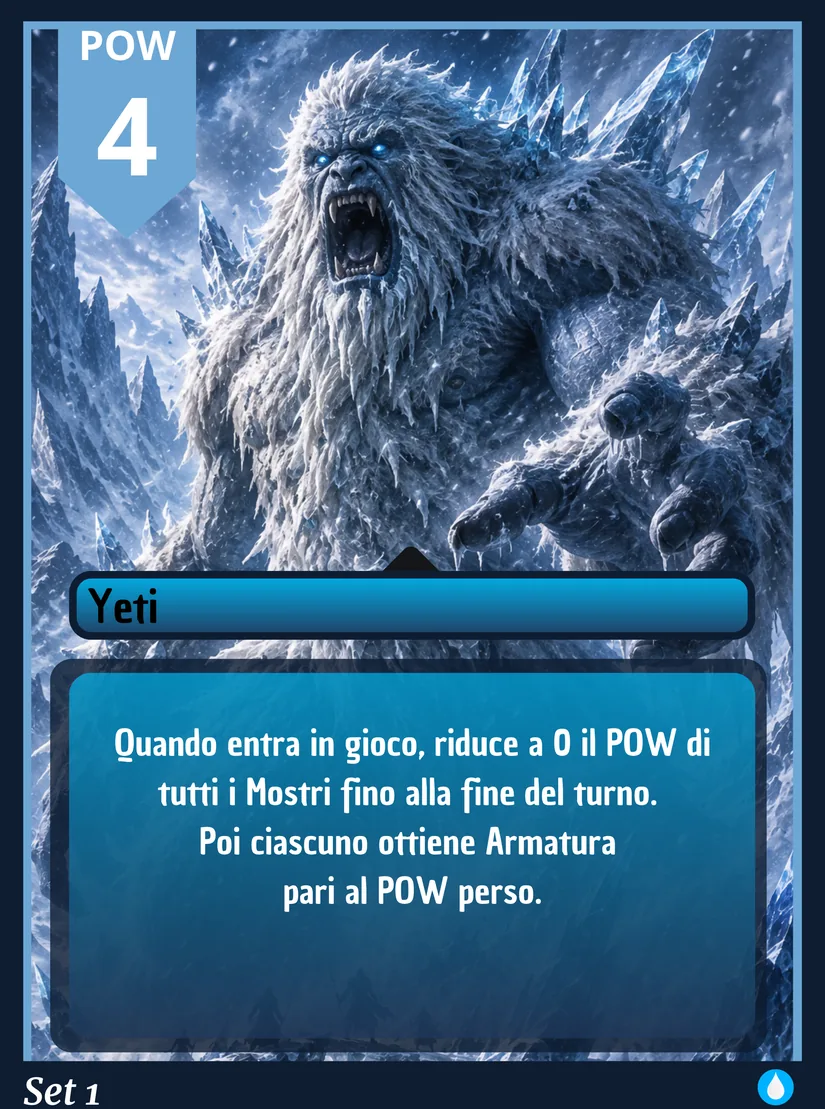
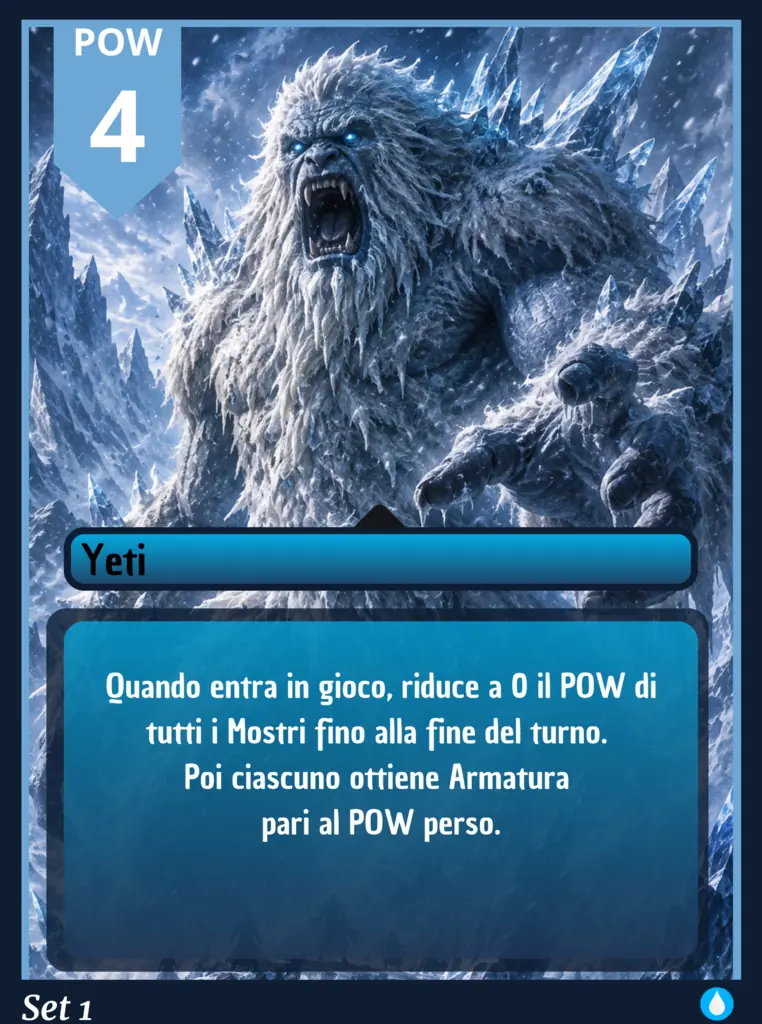
Aggiorna artwork WebP dei Mostri blu

diff --git a/soulforge/index.html b/soulforge/index.html
@@ -18,7 +18,7 @@
     const fixes={'â€¢':'•','â€”':'—','â†’':'→','â€™':'’','â€¦':'…','â†‘':'↑','â†“':'↓','PrioritÃ ':'Priorità','sarÃ ':'sarà','lâ€™':'l’'};
     for(const [bad,good] of Object.entries(fixes)) html=html.split(bad).join(good);
     html=html.replace('</head>','<link rel="stylesheet" href="/ui-v2.css?v=4"><link rel="stylesheet" href="/grave-targets-v4.css?v=1"><link rel="stylesheet" href="/interaction-v5.css?v=1"><link rel="stylesheet" href="/layout-v9.css?v=1"><link rel="stylesheet" href="/hand-v11.css?v=3"><link rel="stylesheet" href="/set1-v18.css?v=1"><link rel="stylesheet" href="/blue-v22.css?v=1"><link rel="stylesheet" href="/deck-builder-v18.css?v=2"><link rel="stylesheet" href="/deck-builder-v22.css?v=4"><link rel="stylesheet" href="/attack-arrow-v20.css?v=1"><link rel="stylesheet" href="/fantasy-board-v29.css?v=1"><link rel="stylesheet" href="/fantasy-board-v29-fix.css?v=1"><link rel="stylesheet" href="/fantasy-board-v30.css?v=1"><link rel="stylesheet" href="/fantasy-board-v31.css?v=1"><link rel="stylesheet" href="/fantasy-board-v32.css?v=1"><link rel="stylesheet" href="/fantasy-board-v33.css?v=1"><link rel="stylesheet" href="/fantasy-board-v34.css?v=1"><link rel="stylesheet" href="/preview-v35.css?v=1"><link rel="stylesheet" href="/fantasy-board-v36.css?v=1"><link rel="stylesheet" href="/fantasy-board-v37.css?v=1"><link rel="stylesheet" href="/fantasy-board-v38.css?v=1"><link rel="stylesheet" href="/fantasy-board-v39.css?v=1"><link rel="stylesheet" href="/coin-hand-v40.css?v=1"><link rel="stylesheet" href="/card-hud-v41.css?v=2"><link rel="stylesheet" href="/hand-position-v74.css?v=1"></head>');
-    html=html.replace('</body>','<script src="/ui-v2.js?v=6"><\/script><script src="/combat-rules-v28.js?v=2"><\/script><script src="/right-click-preview.js?v=6"><\/script><script src="/grave-targets-v4.js?v=2"><\/script><script src="/interaction-v5.js?v=2"><\/script><script src="/targeting-v8.js?v=2"><\/script><script src="/specchio-stack-fix.js?v=1"><\/script><script src="/stability-v10.js?v=1"><\/script><script src="/hand-v11.js?v=4"><\/script><script src="/alta-marea-v13.js?v=1"><\/script><script src="/selection-v16.js?v=1"><\/script><script src="/set1-v17.js?v=2"><\/script><script src="/blue-v22-loader.js?v=5"><\/script><script src="/deck-builder-v27-loader.js?v=1"><\/script><script src="/deck-builder-visual-fix-v71.js?v=7"><\/script><script src="/deck-preview-details-v76.js?v=1"><\/script><script src="/new-monsters-details-v78.js?v=2"><\/script><script src="/attack-arrow-v20.js?v=1"><\/script><script src="/rules-v23.js?v=2"><\/script><script src="/provocation-v24.js?v=2"><\/script><script src="/targeting-standard-v27.js?v=1"><\/script><script src="/fantasy-board-v29.js?v=2"><\/script><script src="/fantasy-board-v30.js?v=2"><\/script><script src="/fantasy-board-v31.js?v=2"><\/script><script src="/preview-conflict-v37.js?v=1"><\/script><script src="/preview-cleanup-v38.js?v=1"><\/script><script src="/coin-hand-v40.js?v=1"><\/script><script src="/card-hud-v41.js?v=1"><\/script><script src="/festa-art-v42.js?v=1"><\/script><script src="/combat-priority-v44.js?v=1"><\/script><script src="/turn-effects-v45.js?v=1"><\/script><script src="/new-cards-v46.js?v=6"><\/script><script src="/new-card-runtime-v47.js?v=1"><\/script><script src="/deck-builder-filters-v48.js?v=4"><\/script><script src="/rules-priority-grave-v49.js?v=4"><\/script><script src="/gameover-rematch-v50.js?v=1"><\/script><script src="/taglio-fiammante-v51.js?v=1"><\/script><script src="/nube-di-fuoco-v52.js?v=1"><\/script><script src="/orange-safe-v1.js?v=2"><\/script><script src="/orange-ui-v2.js?v=2"><\/script><script src="/compact-champions-v61.js?v=1"><\/script><script src="/pugno-target-v62.js?v=2"><\/script><script src="/champion-target-v63.js?v=1"><\/script><script src="/festa-fix-v64.js?v=1"><\/script><script src="/no-target-cast-v65.js?v=1"><\/script><script src="/game-interaction-lock-v66.js?v=1"><\/script><script src="/grave-art-v67.js?v=2"><\/script><script src="/scatola-incantata-v75.js?v=1"><\/script><script src="/new-set-v70.js?v=1"><\/script><script src="/new-set-art-v73.js?v=6"><\/script><script src="/new-monsters-v77.js?v=1"><\/script><script src="/hand-input-v69.js?v=3"><\/script></body>');
+    html=html.replace('</body>','<script src="/ui-v2.js?v=6"><\/script><script src="/combat-rules-v28.js?v=2"><\/script><script src="/right-click-preview.js?v=6"><\/script><script src="/grave-targets-v4.js?v=2"><\/script><script src="/interaction-v5.js?v=2"><\/script><script src="/targeting-v8.js?v=2"><\/script><script src="/specchio-stack-fix.js?v=1"><\/script><script src="/stability-v10.js?v=1"><\/script><script src="/hand-v11.js?v=4"><\/script><script src="/alta-marea-v13.js?v=1"><\/script><script src="/selection-v16.js?v=1"><\/script><script src="/set1-v17.js?v=2"><\/script><script src="/blue-v22-loader.js?v=5"><\/script><script src="/deck-builder-v27-loader.js?v=1"><\/script><script src="/deck-builder-visual-fix-v71.js?v=8"><\/script><script src="/deck-preview-details-v76.js?v=1"><\/script><script src="/new-monsters-details-v78.js?v=2"><\/script><script src="/attack-arrow-v20.js?v=1"><\/script><script src="/rules-v23.js?v=2"><\/script><script src="/provocation-v24.js?v=2"><\/script><script src="/targeting-standard-v27.js?v=1"><\/script><script src="/fantasy-board-v29.js?v=2"><\/script><script src="/fantasy-board-v30.js?v=2"><\/script><script src="/fantasy-board-v31.js?v=2"><\/script><script src="/preview-conflict-v37.js?v=1"><\/script><script src="/preview-cleanup-v38.js?v=1"><\/script><script src="/coin-hand-v40.js?v=1"><\/script><script src="/card-hud-v41.js?v=1"><\/script><script src="/festa-art-v42.js?v=1"><\/script><script src="/combat-priority-v44.js?v=1"><\/script><script src="/turn-effects-v45.js?v=1"><\/script><script src="/new-cards-v46.js?v=6"><\/script><script src="/new-card-runtime-v47.js?v=1"><\/script><script src="/deck-builder-filters-v48.js?v=4"><\/script><script src="/rules-priority-grave-v49.js?v=4"><\/script><script src="/gameover-rematch-v50.js?v=1"><\/script><script src="/taglio-fiammante-v51.js?v=1"><\/script><script src="/nube-di-fuoco-v52.js?v=1"><\/script><script src="/orange-safe-v1.js?v=2"><\/script><script src="/orange-ui-v2.js?v=2"><\/script><script src="/compact-champions-v61.js?v=1"><\/script><script src="/pugno-target-v62.js?v=2"><\/script><script src="/champion-target-v63.js?v=1"><\/script><script src="/festa-fix-v64.js?v=1"><\/script><script src="/no-target-cast-v65.js?v=1"><\/script><script src="/game-interaction-lock-v66.js?v=1"><\/script><script src="/grave-art-v67.js?v=2"><\/script><script src="/scatola-incantata-v75.js?v=1"><\/script><script src="/new-set-v70.js?v=1"><\/script><script src="/new-set-art-v73.js?v=6"><\/script><script src="/new-monsters-v77.js?v=1"><\/script><script src="/hand-input-v69.js?v=3"><\/script></body>');
     document.open();document.write(html);document.close();
   }catch(e){
     document.getElementById('status').className='err';

diff --git a/soulforge/deck-builder-visual-fix-v71.js b/soulforge/deck-builder-visual-fix-v71.js
@@ -4,13 +4,13 @@ const CURRENT='https://raw.githubusercontent.com/andreaamiraglia-svg/fanta-riftb
 // Manteniamo le correzioni Blu storiche solo dove servono.
 // Grifone della Tempesta ora usa il proprio artwork canonico.
 const BLUE_ART={
-  valtheris: CURRENT+'vecchio-delle-nevi.webp?rev=404c3869',
-  squalo_delle_maree: CURRENT+'squalo-delle-maree.webp?rev=art-shark-v2',
-  lupo_glaciale: CURRENT+'lupo-glaciale.webp?rev=blue-replace-v3',
-  grifone_della_tempesta: CURRENT+'grifone-della-tempesta.webp?rev=blue-replace-v3',
-  yeti: CURRENT+'leviatano.webp?rev=404c3869',
-  leviatano: CURRENT+'valtheris-spirito-eterno.webp?rev=404c3869',
-  vecchio_delle_nevi: CURRENT+'squalo-delle-maree.webp?rev=404c3869'
+  valtheris: CURRENT+'valtheris-spirito-eterno.webp?rev=blue-set-v4',
+  squalo_delle_maree: CURRENT+'squalo-delle-maree.webp?rev=blue-set-v4',
+  lupo_glaciale: CURRENT+'lupo-glaciale.webp?rev=blue-set-v4',
+  grifone_della_tempesta: CURRENT+'grifone-della-tempesta.webp?rev=blue-set-v4',
+  yeti: CURRENT+'yeti.webp?rev=blue-set-v4',
+  leviatano: CURRENT+'leviatano.webp?rev=blue-set-v4',
+  vecchio_delle_nevi: CURRENT+'vecchio-delle-nevi.webp?rev=blue-set-v4'
 };
 
 const NAME_TO_ID={
